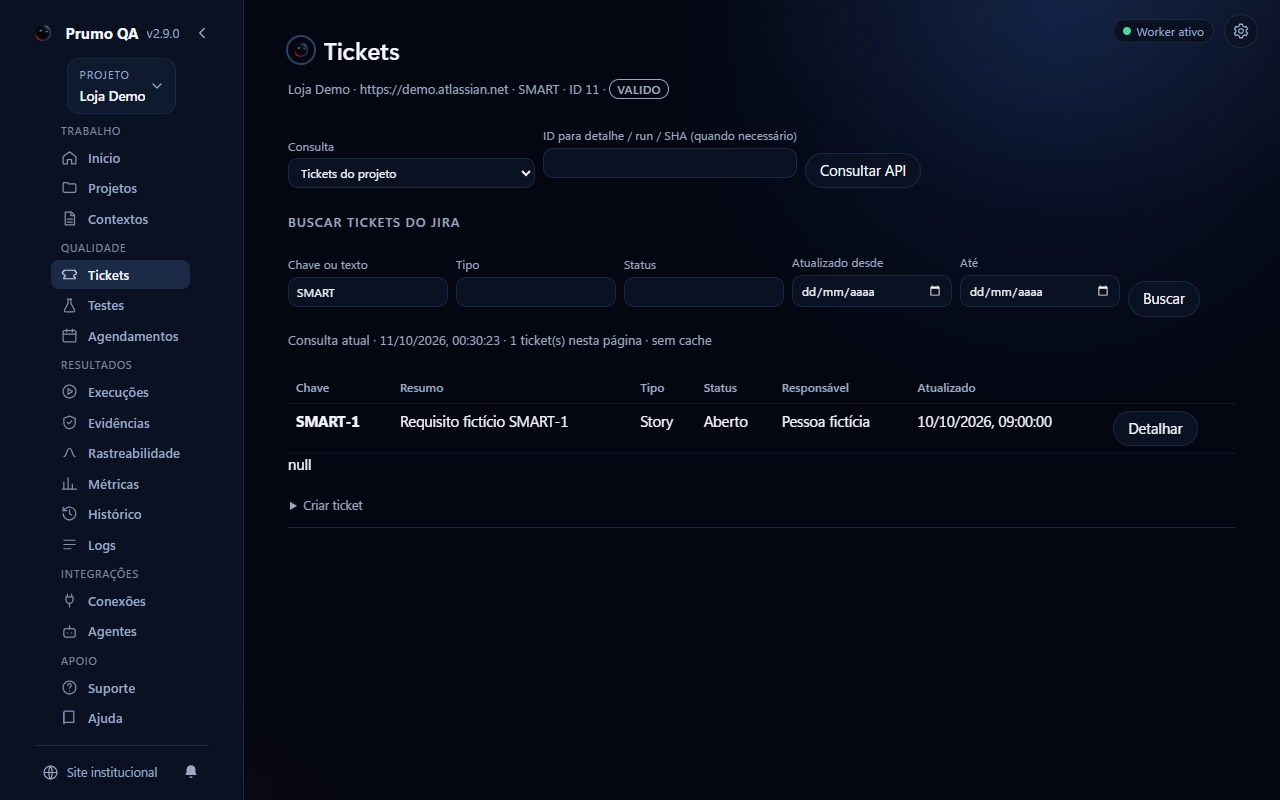
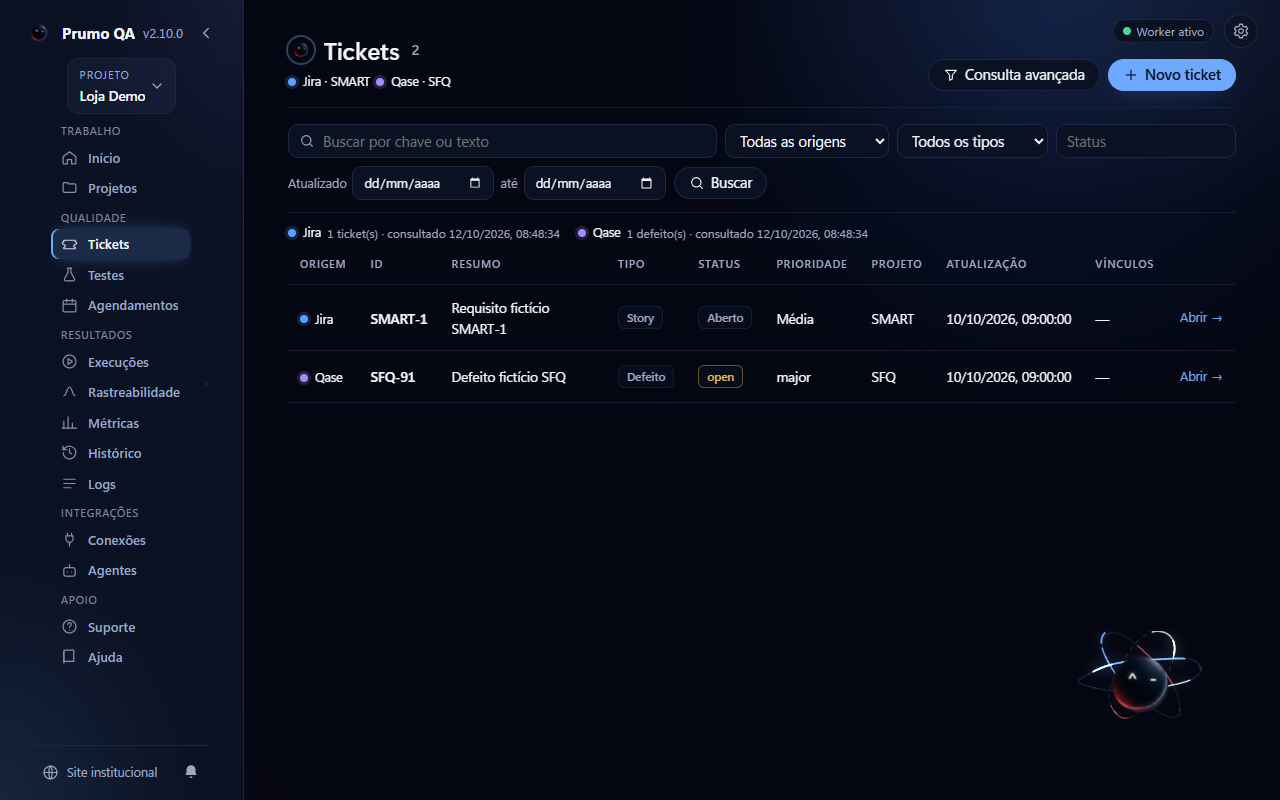
docs(2.10): ajuda e site da 2.10 — agente do site igual ao do aplicativo, página de assistente e agentes, capturas novas
- Site: a esfera do agente usa a mesma imagem e as mesmas três órbitas do aplicativo
  (parâmetros lidos de app/renderer/orbitas-v36.js, em SVG animado só com CSS, sem script).
- Site: textos, tutoriais e capturas da 2.10 (Início, Testes, Código, Tickets, Runs,
  Rastreabilidade, Agentes); guia do ciclo de qualidade na documentação; capturas da 2.9 removidas.
- Ajuda: nova página "Assistente, agentes e conhecimento" (PT/EN); Testes e Tickets
  reescritos para as abas da 2.10.
- Inglês: botões Útil/Não ajudou e abas Casos Qase / CI e GitHub traduzidos.
- Roteiro de captura do site atualizado para as telas da 2.10.

npm run check: 349 testes, 344 PASS, 0 FAIL, 5 SKIPPED (instalador/migração só no CI).

diff --git a/src/painel.ts b/src/painel.ts
@@ -80,7 +80,7 @@ export async function exportarLogs(raiz: string) {
 }
 
 /** Documentos da Ajuda: lista fixa, lidos da pasta do aplicativo. O nome nunca vem da interface em formato livre. */
-export const documentosAjuda = ['01-o-que-e.md', '02-como-funciona.md', '03-instalar.md', '04-vincular.md', '17-plataforma.md', '18-agendamentos.md', '18-agendamentos.en.md', '19-testes-e-integracoes.md', '19-testes-e-integracoes.en.md', 'SERVICOS.md', '15-contextos.md', '16-suporte.md', '05-conectar-ia.md', '06-sem-ia-e-com-ia.md', '07-resultados.md', '08-metricas-e-logs.md', '09-problemas.md', '10-perguntas.md', '11-privacidade.md', '12-seguranca.md', '13-termos.md', '14-sobre.md'] as const;
+export const documentosAjuda = ['01-o-que-e.md', '02-como-funciona.md', '03-instalar.md', '04-vincular.md', '17-plataforma.md', '18-agendamentos.md', '18-agendamentos.en.md', '19-testes-e-integracoes.md', '19-testes-e-integracoes.en.md', '20-assistente-e-agentes.md', '20-assistente-e-agentes.en.md', 'SERVICOS.md', '15-contextos.md', '16-suporte.md', '05-conectar-ia.md', '06-sem-ia-e-com-ia.md', '07-resultados.md', '08-metricas-e-logs.md', '09-problemas.md', '10-perguntas.md', '11-privacidade.md', '12-seguranca.md', '13-termos.md', '14-sobre.md'] as const;
 export function ajuda(pasta: string, versao: string) {
   return documentosAjuda.map(arq => {
     const arquivo=arq==='SERVICOS.md'?path.resolve(pasta,'../../docs/SERVICOS.md'):path.join(pasta,arq);

diff --git a/app/renderer/i18n-en-v41.js b/app/renderer/i18n-en-v41.js
@@ -14,5 +14,9 @@ Object.assign(window.PRUMO_EN, {
   'Quando um cliente MCP chamar o núcleo, o chat responder ou o worker executar uma rotina, a janela aparece aqui. Nenhum agente executando foi inferido.': 'When an MCP client calls the core, the chat answers or the worker runs a routine, its window appears here. No running agent was inferred.',
   'Histórico do núcleo indisponível.': 'Core history unavailable.', 'Execuções indisponíveis.': 'Runs unavailable.',
   'Conversa com {a}': 'Conversation with {a}', 'Gravada somente neste computador. Resposta {m}.': 'Stored on this computer only. Answer: {m}.', 'local, sem modelo de IA': 'local, no AI model',
-  'Execução {r}': 'Run {r}', 'Registro da fila do worker. Evidência e logs completos ficam em Execuções.': 'Worker queue record. Full evidence and logs are in Runs.', 'Abrir Execuções': 'Open Runs'
+  'Execução {r}': 'Run {r}', 'Registro da fila do worker. Evidência e logs completos ficam em Execuções.': 'Worker queue record. Full evidence and logs are in Runs.', 'Abrir Execuções': 'Open Runs',
+  // Avaliação do atendimento no chat (2.10)
+  'Útil': 'Helpful', 'Não ajudou': 'Not helpful',
+  // Abas de Testes sem tradução (a heurística do teste de idioma não as detecta)
+  'Casos Qase': 'Qase cases', 'CI e GitHub': 'CI and GitHub',
 });

diff --git a/app/renderer/apoio-v40.js b/app/renderer/apoio-v40.js
@@ -61,7 +61,7 @@
   const GRUPOS = [
     ['Primeiros passos', ['01-o-que-e', '02-como-funciona', '03-instalar', '04-vincular', '17-plataforma']],
     ['Fluxos de qualidade', ['15-contextos', '19-testes-e-integracoes', '18-agendamentos', '07-resultados', '08-metricas-e-logs']],
-    ['IA e agentes', ['05-conectar-ia', '06-sem-ia-e-com-ia']],
+    ['IA e agentes', ['20-assistente-e-agentes', '05-conectar-ia', '06-sem-ia-e-com-ia']],
     ['Suporte', ['09-problemas', '10-perguntas', '16-suporte']],
     ['Segurança e dados', ['12-seguranca', '11-privacidade', 'dados', '13-termos']],
     ['Referência técnica', ['versoes', 'atualizacoes', 'integracoes', '14-sobre']]

diff --git a/app/ajuda/19-testes-e-integracoes.md b/app/ajuda/19-testes-e-integracoes.md
@@ -1,22 +1,26 @@
-# Testes, tickets e integrações (2.9)
+# Testes, tickets e integrações (2.10)
 
-O Prumo lê os testes do seu repositório, ajuda a refiná-los e, quando você autoriza, cria e atualiza itens no Jira, no Qase e no GitHub. Tudo é feito por ações suas, uma de cada vez.
+O Prumo lê os testes do seu repositório, mostra-os ao lado dos casos do Qase e, quando você autoriza, cria e atualiza itens no Jira, no Qase e no GitHub. Tudo é feito por ações suas, uma de cada vez.
 
 ## Testes
 
-Em Testes há quatro seções.
+Testes representa o que existe no Qase **e** no código do projeto, em abas.
 
-**Catálogo** lê os arquivos de teste da pasta vinculada ao projeto (Playwright, Cypress, Jest/Vitest, Gherkin `.feature` e `test_*.py`), agrupa por feature e mostra cenários e passos. Cada teste recebe um tipo: unitário, integração, funcional, regressão, smoke, desempenho ou acessibilidade. A classificação é inferida por tag (`@smoke`, `@regression`), caminho e conteúdo; passe o mouse no tipo para ver o motivo e a confiança. Nada é executado: é leitura do repositório. Sem pasta vinculada, o catálogo pede para vincular uma.
+**Visão geral** junta casos do Qase e testes do repositório numa lista única. Um caso e um teste só ficam juntos por anotação explícita no próprio teste: `qase(31, …)`, `qase.id(31)`, `@qase(31)`, `@qase-31` ou `Qase: SFQ-31`. Nome parecido não liga nada. Cada linha mostra a situação (caso com código, manual, automação planejada, automatizado no Qase sem código encontrado, código que anota um caso inexistente ou código sem caso), o nível (unitário, API, E2E…), as tags e o último resultado no Prumo. Filtre por fonte, nível, execução e tag; agrupe por tag, feature ou nível.
 
-**Casos e propostas** aparece quando o Qase está vinculado. Rascunhos feitos por você, pelo Prumo ou por uma IA conectada ficam aqui até você revisar (duplicidade, requisito, risco e cobertura) e publicar. Nada vai ao Qase sem a sua confirmação.
+**Código** é uma visão somente leitura dos arquivos de teste: árvore de pastas, leitor com numeração e marcadores por teste (nível, tags, caso do Qase) e um painel com o caso, os tickets, os resultados e as permissões reais dos agentes neste código. Só arquivos de teste dentro da pasta vinculada, sem link simbólico, até 300 KB e com segredos mascarados. A classificação vem de tag (`@smoke`, `@regression`), caminho e conteúdo, com motivo e confiança. Nada é executado.
 
-**Planos e execuções** monta a execução com os casos escolhidos, roda as automações associadas (cada uma pede a sua autenticação do Windows), registra os resultados e publica no Qase conferindo a run. Feature é o plano, cenário é o caso e execução é o relatório.
+**Casos Qase**, **Suites** e **Planos** aparecem quando o Qase está vinculado. O detalhe do caso mostra passos, resultados locais, associação a ticket, declaração de automação e o código que o implementa. Rascunhos feitos por você, pelo Prumo ou por uma IA conectada esperam a sua revisão (duplicidade, requisito, risco e cobertura) antes de publicar.
 
-**Automação** mostra o contrato da pasta e as execuções do GitHub Actions. O Prumo só escreve em branches `prumo/...`, nunca no principal, e abre o Pull Request como rascunho.
+**Runs** reúne as runs preparadas no Prumo e as do Qase. Uma run local registra resultados manuais, roda as automações associadas (cada uma pede a sua autenticação do Windows) e publica no Qase conferindo a run.
+
+**CI e GitHub** mostra o contrato da pasta e as execuções do GitHub Actions. O Prumo só escreve em branches `prumo/...`, nunca no principal, e abre o Pull Request como rascunho.
 
 ## Tickets
 
-Busque no Jira por texto, tipo, status e data. O detalhe mostra descrição, critérios de aceite, histórico, anexos e transições. Comentar, anexar arquivo, mudar status e criar ticket pedem confirmação com prévia.
+Jira e defeitos do Qase ficam numa tabela única, com a origem em cada linha e filtros por texto, origem, tipo, status e período. O detalhe do ticket mostra descrição, critérios, relações, comentários, histórico, anexos e transições. Comentar, anexar, mudar status, editar e criar ticket pedem confirmação com prévia.
+
+Defeitos do Qase são somente leitura. Em um defeito, **Abrir ticket no Jira…** preenche um ticket novo e registra o vínculo defeito → ticket; com vínculo existente, o botão não aparece.
 
 ## Escrita externa
 
@@ -28,7 +32,7 @@ Em Agentes, escolha as especializações do projeto e o que a IA pode pedir. O b
 
 ## Início
 
-O painel inicial resume o que está acontecendo no projeto e responde perguntas com os dados deste computador (contextos aprovados, propostas, execuções e agenda). Não usa modelo de IA nem rede.
+O painel inicial resume o que está acontecendo no projeto e responde perguntas com os dados deste computador. Veja [Assistente, agentes e conhecimento](20-assistente-e-agentes.md).
 
 ## Atalhos e ajustes
 

diff --git a/app/ajuda/19-testes-e-integracoes.en.md b/app/ajuda/19-testes-e-integracoes.en.md
@@ -1,22 +1,26 @@
-# Tests, tickets and integrations (2.9)
+# Tests, tickets and integrations (2.10)
 
-Prumo reads your repository's tests, helps refine them and, when you allow it, creates and updates items in Jira, Qase and GitHub. Everything happens through your own actions, one at a time.
+Prumo reads your repository's tests, shows them next to the Qase cases and, when you allow it, creates and updates items in Jira, Qase and GitHub. Everything happens through your own actions, one at a time.
 
 ## Tests
 
-Tests has four sections.
+Tests represents what exists in Qase **and** in the project's code, in tabs.
 
-**Catalog** reads the test files in the folder linked to the project (Playwright, Cypress, Jest/Vitest, Gherkin `.feature` and `test_*.py`), groups them by feature and shows scenarios and steps. Each test gets a type: unit, integration, functional, regression, smoke, performance or accessibility. The classification is inferred from tags (`@smoke`, `@regression`), path and content; hover the type to see the reason and the confidence. Nothing is executed: this is a reading of the repository. Without a linked folder, the catalog asks you to link one.
+**Overview** joins Qase cases and repository tests in a single list. A case and a test only go together through an explicit annotation in the test itself: `qase(31, …)`, `qase.id(31)`, `@qase(31)`, `@qase-31` or `Qase: SFQ-31`. A similar name links nothing. Each row shows the situation (case with code, manual, planned automation, automated in Qase with no code found, code that annotates a missing case or code without a case), the level (unit, API, E2E…), the tags and the last result in Prumo. Filter by source, level, execution and tag; group by tag, feature or level.
 
-**Cases and proposals** appears when Qase is linked. Drafts made by you, by Prumo or by a connected AI stay here until you review (duplicates, requirement, risk and coverage) and publish. Nothing goes to Qase without your confirmation.
+**Code** is a read-only view of the test files: folder tree, reader with line numbers and markers per test (level, tags, Qase case) and a panel with the case, the tickets, the results and the agents' real permissions on this code. Only test files inside the linked folder, no symbolic links, up to 300 KB and with secrets masked. The classification comes from tags (`@smoke`, `@regression`), path and content, with reason and confidence. Nothing is executed.
 
-**Plans and executions** builds the execution from the chosen cases, runs the linked automations (each asks for your Windows authentication), records the results and publishes to Qase, verifying the run. Feature is the plan, scenario is the case and execution is the report.
+**Qase cases**, **Suites** and **Plans** appear when Qase is linked. The case detail shows steps, local results, link to a ticket, automation declaration and the code that implements it. Drafts made by you, by Prumo or by a connected AI wait for your review (duplicates, requirement, risk and coverage) before publishing.
 
-**Automation** shows the folder's contract and GitHub Actions runs. Prumo only writes to `prumo/...` branches, never the default one, and opens the Pull Request as a draft.
+**Runs** gathers the runs prepared in Prumo and the Qase runs. A local run records manual results, runs the associated automations (each one asks for your Windows authentication) and publishes to Qase, checking the run.
+
+**CI and GitHub** shows the folder's contract and GitHub Actions runs. Prumo only writes to `prumo/...` branches, never to the main one, and opens the Pull Request as a draft.
 
 ## Tickets
 
-Search Jira by text, type, status and date. The detail shows description, acceptance criteria, history, attachments and transitions. Commenting, attaching a file, changing status and creating a ticket ask for confirmation with a preview.
+Jira tickets and Qase defects are in a single table, with the source on each row and filters by text, source, type, status and period. The ticket detail shows description, criteria, relations, comments, history, attachments and transitions. Commenting, attaching, changing status, editing and creating a ticket ask for confirmation with a preview.
+
+Qase defects are read-only. On a defect, **Open Jira ticket…** fills in a new ticket and records the defect → ticket link; when a link already exists, the button is not shown.
 
 ## External writes
 
@@ -28,7 +32,7 @@ In Agents, choose the project's specializations and what the AI may ask for. Blo
 
 ## Home
 
-The home panel summarizes what is happening in the project and answers questions with this computer's data (approved contexts, proposals, executions and schedule). It uses no AI model and no network.
+The home panel summarizes what is happening in the project and answers questions with this computer's data. See [Assistant, agents and knowledge](20-assistente-e-agentes.en.md).
 
 ## Shortcuts and settings
 

diff --git a/app/ajuda/20-assistente-e-agentes.md b/app/ajuda/20-assistente-e-agentes.md
@@ -1,0 +1,40 @@
+# Assistente, agentes e conhecimento (2.10)
+
+O Prumo tem um assistente local e oito especializações de agente. Elas respondem com os dados deste computador, aprendem só o que você aprovar e nunca ganham permissões novas por conversar.
+
+## Início e chat
+
+Início e o chat flutuante (ou lateral) usam o mesmo orquestrador e as mesmas especializações da tela Agentes. A sessão guarda até seis turnos, separada por projeto, e some quando a janela fecha. O roteamento considera palavras inteiras, menção explícita ao agente e a continuação da conversa; em **Agente automático** você pode escolher outro agente e corrigir a escolha.
+
+O modo local é determinístico: consulta dados, mostra as fontes e sugere próximos passos, sem modelo de IA e sem rede. Claude e Codex são provedores opcionais: só respondem com a sua autorização no produto, e a resposta identifica de onde veio. Uma resposta do chat nunca vira teste executado.
+
+## Perfil e conhecimento
+
+Na primeira conversa o Prumo pergunta como chamar você e qual o seu papel (QA, desenvolvimento, produto ou análise). Não é login em conta remota. Perfil, conhecimentos e metadados de atendimento ficam no arquivo local `conhecimento.db`, no seu perfil do Windows.
+
+O chat não grava perguntas nem respostas: fica só o atendimento (agente, modo e fontes). Conversas gravadas até a 2.9 continuam legíveis.
+
+Todo aprendizado vindo de conversa ou de IA nasce **rascunho**. Você aprova ou descarta no chat ou no **Cérebro** do agente. Útil/não ajudou registra a sua avaliação; corrigir o agente escolhido ensina vocabulário, sem validar sozinho uma regra de negócio.
+
+## Agentes
+
+A tela Agentes mostra o **Prumo Orchestrator**, os clientes Codex e Claude Code conectados por MCP e as oito especializações do projeto, cada uma com o seu retrato. Em cada agente:
+
+- **Configuração** liga ou desliga a especialização e define o que a IA pode pedir. O bloqueio vale no servidor MCP a cada chamada.
+- **Cérebro** mostra a skill, as capacidades, os motivos das políticas e os conhecimentos aprovados ou em rascunho.
+
+**Nova prévia** cria um agente personalizado apenas como prévia local da janela (até 50 por projeto, importação JSON de até 32 KiB). Ela não cria especialização, conexão nem processo no núcleo. **Contextos** abre a partir desta tela.
+
+## Painel de atividades
+
+Agentes › Painel de atividades é um canvas ao vivo: no topo, uma janela por cliente MCP ou CLI observado, o Orchestrator, o worker e, quando houve delegação, Claude Code ou Codex; no meio, a ferramenta, o agente ou a rotina; embaixo, cada operação, atendimento ou execução. **Toda linha corresponde a um registro gravado**; nenhuma comunicação entre agentes é inferida. Início sem término não prova que um processo está ativo.
+
+Arraste para mover, Ctrl + roda ou pinça para aproximar; no teclado, setas movem, `+` e `-` aproximam e `0` ajusta. **Ao vivo** consulta a cada 3 segundos com a aba visível. Cada consulta traz até 1000 operações, 200 execuções e 40 atendimentos por agente.
+
+## Pelo MCP
+
+O servidor MCP do Prumo oferece prompts das especializações e a ferramenta `propor_aprendizado`, que cria apenas rascunho, com limite por hora; aprovar continua sendo seu. O conhecimento aprovado só vai ao contexto da IA externa com a permissão de compartilhamento do projeto. Documentos e conhecimentos são dados, nunca ordens.
+
+## Limites
+
+Os retratos dos agentes são imagens com movimento visual, sem rosto 3D. Claude e Codex dependem da sua conta e da sua autorização. As integrações foram validadas com serviços simulados.

diff --git a/app/ajuda/20-assistente-e-agentes.en.md b/app/ajuda/20-assistente-e-agentes.en.md
@@ -1,0 +1,40 @@
+# Assistant, agents and knowledge (2.10)
+
+Prumo has a local assistant and eight agent specializations. They answer with the data on this computer, learn only what you approve and never gain new permissions by chatting.
+
+## Home and chat
+
+Home and the floating (or side) chat use the same orchestrator and the same specializations as the Agents screen. The session keeps up to six turns, separated by project, and disappears when the window closes. Routing considers whole words, an explicit mention of the agent and the follow-up of the conversation; in **Automatic agent** you can pick another agent and correct the choice.
+
+Local mode is deterministic: it queries data, shows the sources and suggests next steps, with no AI model and no network. Claude and Codex are optional providers: they only answer with your authorization in the product, and the answer says where it came from. A chat answer never becomes an executed test.
+
+## Profile and knowledge
+
+In the first conversation Prumo asks what to call you and your role (QA, development, product or analysis). It is not a remote account login. Profile, knowledge and attendance metadata stay in the local file `conhecimento.db`, in your Windows profile.
+
+The chat does not store questions or answers: only the attendance is kept (agent, mode and sources). Conversations stored up to 2.9 remain readable.
+
+Every learning that comes from a conversation or from an AI starts as a **draft**. You approve or discard it in the chat or in the agent's **Brain**. Helpful/not helpful records your feedback; correcting the chosen agent teaches vocabulary, without validating a business rule on its own.
+
+## Agents
+
+The Agents screen shows the **Prumo Orchestrator**, the Codex and Claude Code clients connected through MCP and the project's eight specializations, each with its own portrait. For each agent:
+
+- **Configuration** turns the specialization on or off and defines what the AI may request. The block applies in the MCP server on every call.
+- **Brain** shows the skill, the capabilities, the reasons behind the policies and the approved or draft knowledge.
+
+**New preview** creates a custom agent only as a local preview in the window (up to 50 per project, JSON import up to 32 KiB). It does not create a specialization, connection or process in the core. **Contexts** opens from this screen.
+
+## Activity panel
+
+Agents › Activity panel is a live canvas: at the top, one window per observed MCP or CLI client, the Orchestrator, the worker and, when there was delegation, Claude Code or Codex; in the middle, the tool, the agent or the routine; at the bottom, each operation, attendance or run. **Every line matches a stored record**; no communication between agents is inferred. A start without an end does not prove that a process is running.
+
+Drag to move, Ctrl + wheel or pinch to zoom; on the keyboard, arrows move, `+` and `-` zoom and `0` fits. **Live** queries every 3 seconds while the tab is visible. Each query brings up to 1000 operations, 200 runs and 40 attendances per agent.
+
+## Through MCP
+
+Prumo's MCP server offers prompts for the specializations and the `propor_aprendizado` tool, which only creates a draft, with an hourly limit; approving is still up to you. Approved knowledge only goes to the external AI context with the project's sharing permission. Documents and knowledge are data, never orders.
+
+## Limits
+
+The agent portraits are images with visual motion, without a 3D face. Claude and Codex depend on your account and your authorization. The integrations were validated with simulated services.
